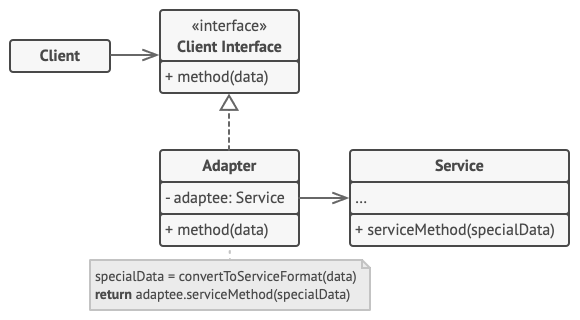
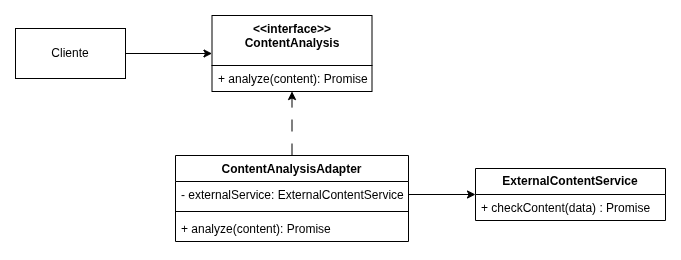
atualizando diagrama adapter

Changed region(s): [[0.1552, 0.4615, 0.9931, 0.9846], [0.0, 0.0, 0.5586, 0.4]]

diff --git a/docs/PadroesDeProjeto/3.2.1.GoFsEstruturais-Adapter.md b/docs/PadroesDeProjeto/3.2.1.GoFsEstruturais-Adapter.md
@@ -119,7 +119,7 @@ Essa arquitetura promove o **baixo acoplamento** entre o módulo de relatórios 
 
 </div>
 
-<font size="2"><p style="text-align: center"><b>Autor:</b> <a href="https://refactoring.guru/pt-br/design-patterns/adapter">Refactoring Guru</a>, 2025</p></font>
+<font size="2"><p style="text-align: center"><b>Autor:</b> <a href="https://github.com/fsousac">Felipe de Sousa</a>, 2025</p></font>
 
 ## Conclusão
 
@@ -147,3 +147,4 @@ Esse padrão é valioso especialmente em projetos grandes, nos quais mudanças e
 | Versão | Data       | Descrição                                                   | Autor(es)                                                                             | Revisor(es)   | Detalhes da revisão |
 | ------ | ---------- | ----------------------------------------------------------- | ------------------------------------------------------------------------------------- | ------------- | ------------------- |
 | 1.0    | 27/05/2025 | Início do documento de um exemplo de Adapter para o projeto | [Felipe de Sousa](https://github.com/fsousac) e [Marllon](https://github.com/m4rllon) | <<Preencher>> | <<Preencher>>       |
+| 1.1    | 27/05/2025 | Atualizando diagrama do Adapter                             | [Felipe de Sousa](https://github.com/fsousac)                                         | <<Preencher>> | <<Preencher>>       |
